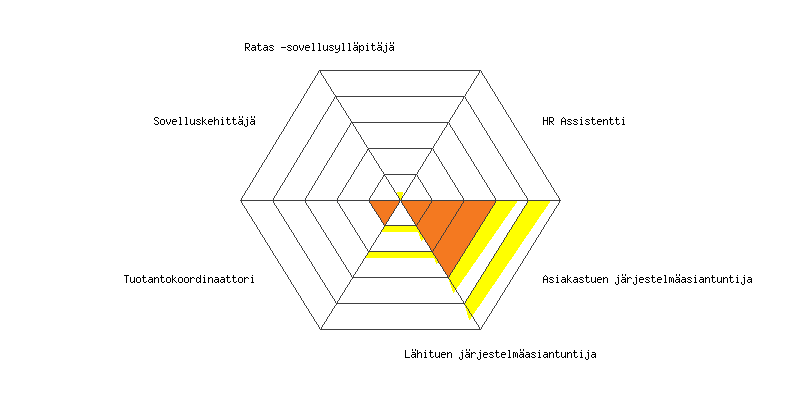
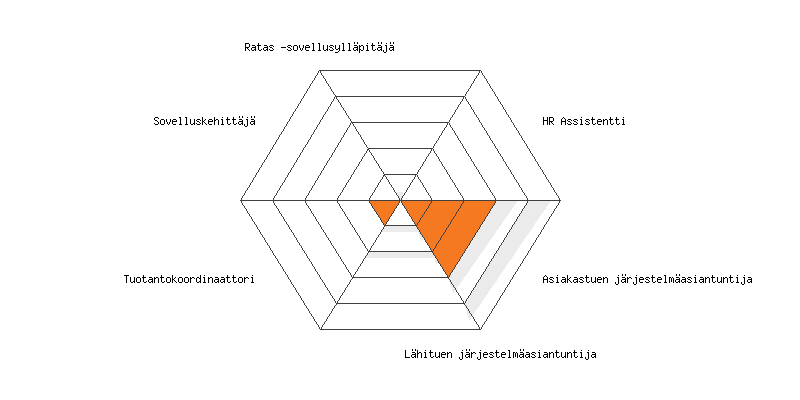
Changed the requirement filling color to gray on spiderweb figure

Changed region(s): [[0.4375, 0.48, 0.6875, 0.81], [0.4688, 0.54, 0.5312, 0.6]]

diff --git a/Seminaari/seminaari.tex b/Seminaari/seminaari.tex
@@ -178,12 +178,12 @@ Organisaation tavoiteasetannassa johtoryhmä tekee päätökset yrityksen pääa
 
 \subsection{Urapolut}
 
-Jotta työntekijöitä saataisiin motivoitua kehittämään itseään, tulee heidän urakehittymismahdollisuutensa olla selkeästi tiedossa. Koska jokaiselle roolille on asetettu konkreettiset tavoitteet kullekin roolitasolle 1-5, voidaan nämä visualisoida selvästi ns. urapolkunäkymänä. Urapolkunäkymästä on esitetty esimerkki testitunnukselta kuvassa \ref{fig:urapolkuspiderweb}. Kuvassa oranssilla on kuvattu työrooli, johon työntekijä varsinaisesti on määritelty ja keltaisella roolit, joista vaatimuksia on täyttynyt kuvauksen mukainen määrä. Koska rooleissa on tasot 1-5 ja kullakin tasolla omat vaatimuksensa, ei käytännössä tasolla voi nousta ylöspäin, jos alemman tason vaatimukset eivät täyty. Kuitenkin nämä on visualisoitu erikseen, jotta henkilö itse näkee, kuinka pitkälle hän alemman tason vaatimukset täyttämällä voisi edetä.
+Jotta työntekijöitä saataisiin motivoitua kehittämään itseään, tulee heidän urakehittymismahdollisuutensa olla selkeästi tiedossa. Koska jokaiselle roolille on asetettu konkreettiset tavoitteet kullekin roolitasolle 1-5, voidaan nämä visualisoida selvästi ns. urapolkunäkymänä. Urapolkunäkymästä on esitetty esimerkki testitunnukselta kuvassa \ref{fig:urapolkuspiderweb}. Kuvassa oranssilla on kuvattu työrooli, johon työntekijä varsinaisesti on määritelty ja harmaalla roolit, joista vaatimuksia on täyttynyt prosentuaalisesti esityksen mukainen täyttömäärä. Koska rooleissa on tasot 1-5 ja kullakin tasolla omat vaatimuksensa, ei käytännössä tasolla voi nousta ylöspäin, jos alemman tason vaatimukset eivät täyty. Kuitenkin nämä on täytetty erikseen, jotta henkilö itse näkee, kuinka pitkälle hän alemman tason vaatimukset täyttämällä voisi edetä.
 
 \begin{figure}[!ht]
 \centering
 \includegraphics[width=1\textwidth]{urapolkuPlot_tst_usr.png}
-\caption{Esimerkki testihenkilön urapolkunäkymästä, jossa tämänhetkiset roolit on merkitty oranssilla ja muiden roolien vaatimusten täyttymisaste keltaisella.}
+\caption{Esimerkki testihenkilön urapolkunäkymästä, jossa tämänhetkiset roolit on merkitty oranssilla ja muiden roolien vaatimusten täyttymisaste harmaalla.}
 \label{fig:urapolkuspiderweb}
 \end{figure}
 
